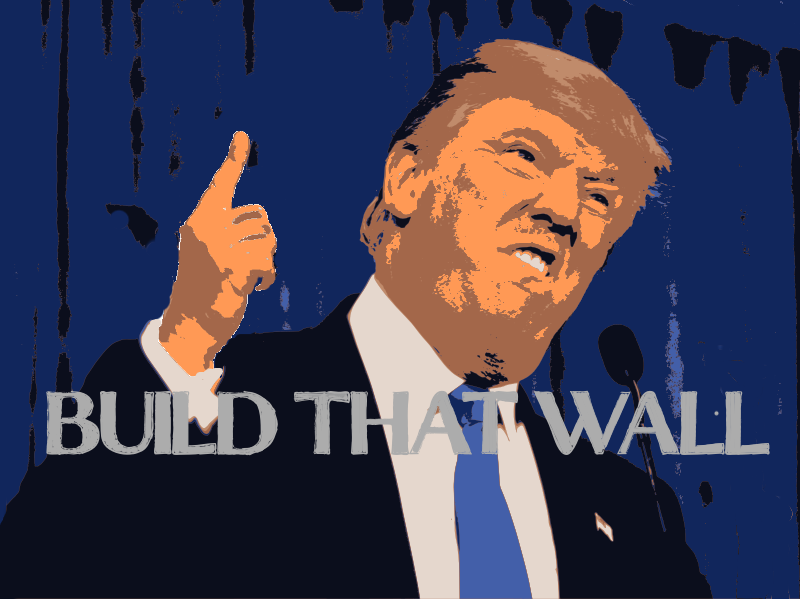
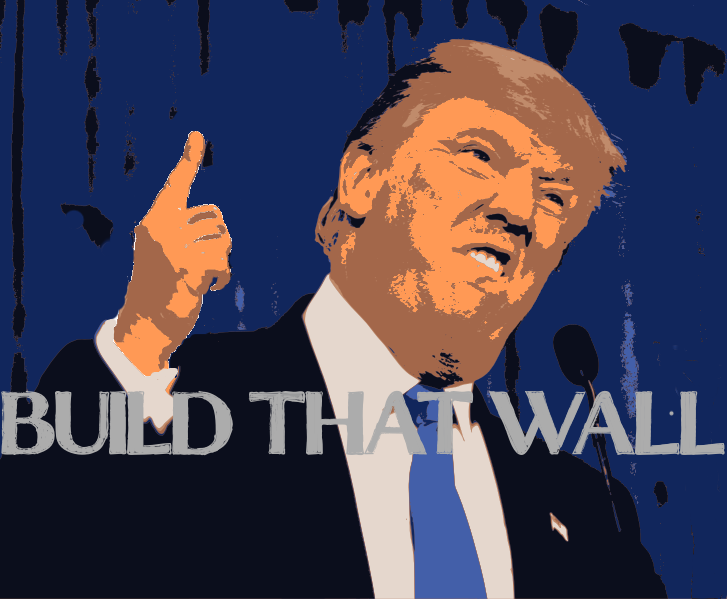
Audio Fail and Aspect Ratio

diff --git a/src/js/game/states/menu.js b/src/js/game/states/menu.js
@@ -7,48 +7,21 @@ menu.init = function() {
         //  Phaser will automatically pause if the browser tab the game is in loses focus. You can disable that here:
         this.stage.disableVisibilityChange = true;
 
-        if (this.game.device.desktop)
-        {
-            //  If you have any desktop specific settings, they can go in here
-            this.scale.pageAlignHorizontally = true;
-        }
-        else
-        {
-            //  Same goes for mobile settings.
-            //  In this case we're saying "scale the game, no lower than 480x260 and no higher than 1024x768"
-
-
-            // this.scale.scaleMode = Phaser.ScaleManager.SHOW_ALL;
-            // var width = window.innerWidth;
-            // var height = 600 * (width/800);
-            // // this.scale.startFullScreen(false);
-            // this.scale.maxWidth = width;
-            // this.scale.maxHeight = height;
-            // this.scale.refresh();
-            this.goFull();
-        }
 }
 
 menu.preload = function() {
-
-  // this.game.scale.scaleMode = Phaser.ScaleManager.SHOW_ALL;
-  // this.game.scale.minWidth = 200;
-  // this.game.scale.minHeight = 150;
-  // this.game.scale.maxWidth = 800;
-  // this.game.scale.maxHeight = 600;
-  // this.game.scale.pageAlignHorizontally = true;
-  // this.game.scale.pageAlignVertically = true;
-  // this.game.scale.setGameSize();
-  // this.game.scale.refresh();
-
   this.game.load.image('menu', 'images/MenuScreen.png');
 }
 
 menu.create = function() {
+  this.scale.scaleMode = Phaser.ScaleManager.SHOW_ALL;
+  this.scale.pageAlignHorizontally = true;
+  this.scale.pageAlignVertically = true;
 
-  this.s = this.game.add.tileSprite(0, 0, 800, 600, 'menu');
 
-  var playGameButton = this.game.add.text(this.game.world.centerX, this.game.world.centerY, "Play Game",
+  this.s = this.game.add.tileSprite(0, 0, 727, 600, 'menu');
+
+  var playGameButton = this.game.add.text(this.game.world.centerX, this.game.world.centerY, "Press or Click to Play Game",
   {
     font: "24px Arial",
     fill: "#fff",
@@ -60,16 +33,8 @@ menu.create = function() {
 }
 
 menu.playGame = function() {
-  this.game.state.start('boot');
-}
 
-menu.goFull = function() {
-  var width = window.screen.width;
-  var height = 500 * (width/800);
-  this.game.scale.startFullScreen(false);
-  this.game.scale.maxWidth = width;
-  this.game.scale.maxHeight = height;
-  this.game.scale.refresh();
+  this.game.state.start('boot');
 }
 
 module.exports = menu;

diff --git a/src/js/game/states/preloader.js b/src/js/game/states/preloader.js
@@ -6,16 +6,16 @@ preloader.preload = function () {
   this.game.load.image('seal', 'images/seal.png');
   this.game.load.atlas('trump', 'images/trump.png', 'images/trump.json');
 
-  this.game.load.audio('weNeedToBuild', [ 'audio/WeNeedToBuild.mp3', 'audio/WeNeedToBuild.ogg' ]);
+  this.game.load.audio('weNeedToBuild', [ 'audio/WeNeedToBuild.ogg', 'audio/WeNeedToBuild.mp3' ]);
 
-  this.game.load.audio('smash1', [ 'audio/smash1.mp3', 'audio/smash1.ogg' ]);
-  this.game.load.audio('smash2', [ 'audio/smash2.mp3', 'audio/smash2.ogg' ]);
+  this.game.load.audio('smash1', [ 'audio/smash1.ogg', 'audio/smash1.mp3' ]);
+  this.game.load.audio('smash2', [ 'audio/smash2.ogg', 'audio/smash2.mp3' ]);
 
   //Hit Trump sounds.
-  this.game.load.audio('beef', [ 'audio/beef.mp3', 'audio/beef.ogg' ]);
-  this.game.load.audio('stopIt', [ 'audio/stopit.mp3', 'audio/stopit.ogg' ]);
-  this.game.load.audio('cameoutofnowhere', [ 'audio/cameoutofnowhere.mp3', 'audio/cameoutofnowhere.ogg' ]);
-  this.game.load.audio('stupidpeopleinourcountry', [ 'audio/stupidpeopleinourcountry.mp3', 'audio/stupidpeopleinourcountry.ogg' ]);
+  this.game.load.audio('beef', [ 'audio/beef.ogg', 'audio/beef.mp3' ]);
+  this.game.load.audio('stopIt', [ 'audio/stopit.ogg', 'audio/stopit.mp3' ]);
+  this.game.load.audio('cameoutofnowhere', [ 'audio/cameoutofnowhere.ogg', 'audio/cameoutofnowhere.mp3' ]);
+  this.game.load.audio('stupidpeopleinourcountry', [ 'audio/stupidpeopleinourcountry.ogg', 'audio/stupidpeopleinourcountry.mp3' ]);
 
 };
 

diff --git a/src/js/game/properties.js b/src/js/game/properties.js
@@ -8,7 +8,7 @@ module.exports =
   , mute: false
   , showStats: false
   , size:
-    { x: 800
+    { x: 727
     , y: 600
     }
   , analyticsId: 'UA-92110910-1'

diff --git a/readme.md b/readme.md
@@ -12,8 +12,6 @@
 
 ## TODO:
 
-  * New background.
-  * More sound clips.
   * Get help with mobile resize.
   * Ads.
   * Replace Trump head with Steve Bannon if player score is over 10,000.
